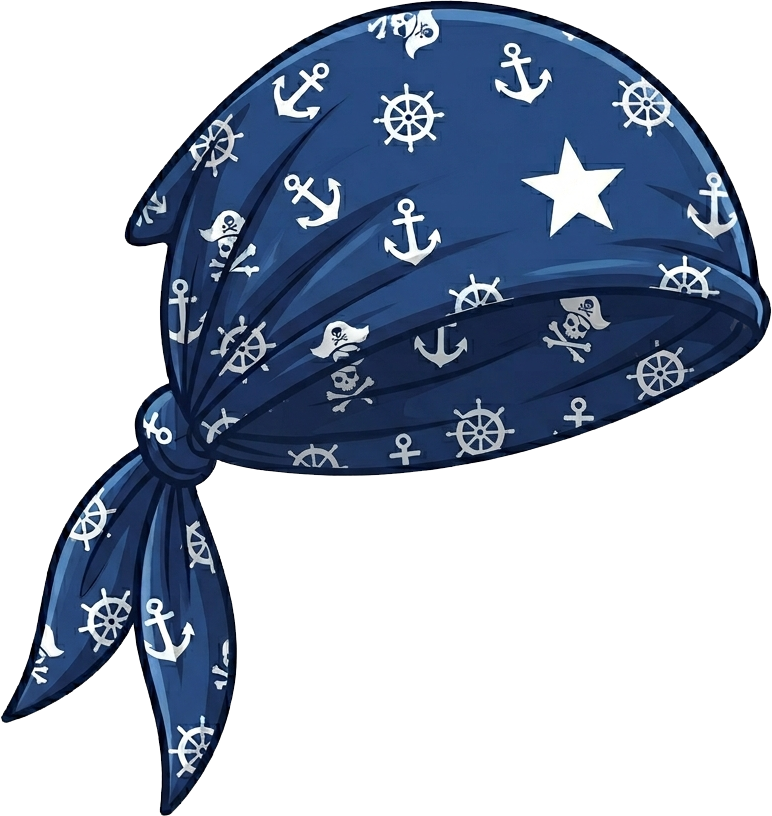
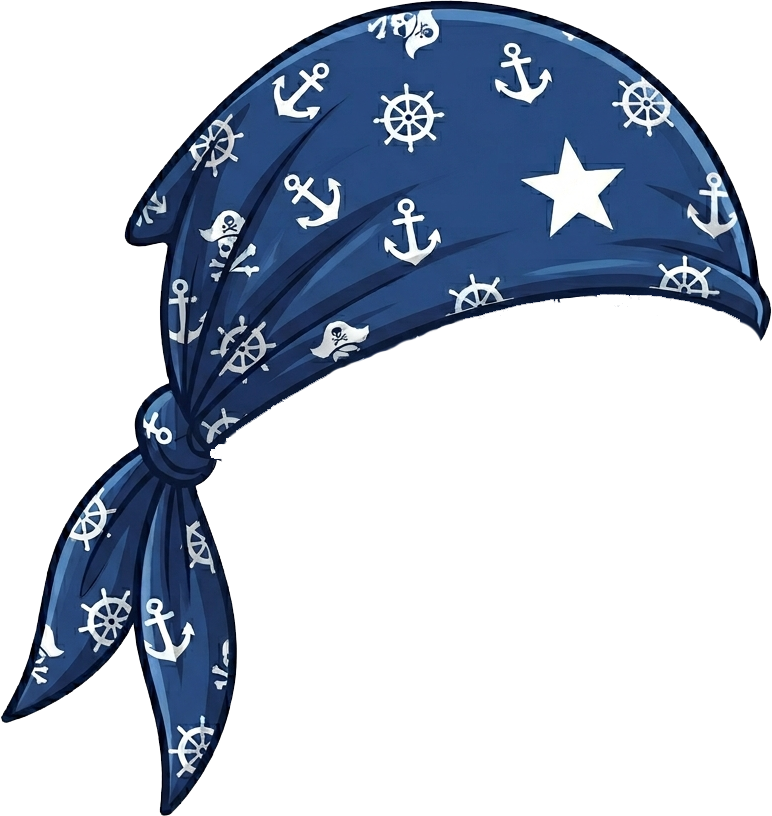
fix(treasure-divide): rope painter abort + tune lookout theme
Rope painter abort root cause:
The `_RopePainter` on the treasure map issued ~200 separate
canvas.drawPath calls per paint — one per dash segment along ~8
quadratic Bezier curves (dashLen=3, gapLen=5). Each call round-trips
through the Dart→wasm bridge and allocates Skia path objects in the
CanvasKit heap. Wasm GC isn't deterministic so the cumulative
pressure surfaced as `RuntimeError: Aborted()` inside
PictureRecorder during paint(). Confirmed from the flutter run log:
every Aborted() in the session traces to
treasure_map_widget.dart:346:26 (the CustomPaint hosting _RopePainter).

Fix: accumulate every dash sub-segment into a single combined Path
via `_addDashesTo`, then issue exactly one canvas.drawPath per
paint. Same visual output, ~200x fewer Skia round-trips. Extracted
sub-paths are immediately consumed by target.addPath and discarded.

Lookout theme tuning + refreshed art:
- Bandana (theme 4, accessory 0)
  - kThemeAccessoryFaceWidthScale[4][0] = 1.541 — bandana box spans
    1.541x the player's face bbox width (the bandana wraps further
    around the head than the bosun tricorn's 1.36).
  - kThemeAccessoryOffsetMultipliers[4][0] = Offset(-0.13, 0.25) —
    left 13%, down 25% of its own size so the visible cloth lands
    on the forehead (source art has negative space above).
  - Refreshed lookout_bandana.png art.
- Telescope (theme 4, accessory 1)
  - Anchor changed from topRightCorner to leftEye so the scope
    follows the player's actual eye.
[…]

Changed region(s): [[0.2798, 0.337, 0.9948, 0.5821]]

diff --git a/dart_games/lib/widgets/treasure_divide/pirate_avatar_widget.dart b/dart_games/lib/widgets/treasure_divide/pirate_avatar_widget.dart
@@ -74,8 +74,10 @@ const Map<ThemeAccessoryAnchor, Offset> _kHeuristicPositions = {
 ///                 mark), scar=leftEyeNoseMidpoint (sits on the upper cheek
 ///                 directly below the left eye)
 /// - 3 Navigator:  sailor_cap=headTop, monocle=rightEye, compass=bottomRightCorner
-/// - 4 Lookout:    bandana=headTop, telescope=topRightCorner (scope extends
-///                 toward upper-right — matches spec "upper-right frame edge")
+/// - 4 Lookout:    bandana=headTop, telescope=leftEye with a half-step
+///                 right/up nudge so the scope's bottom-left corner pins
+///                 exactly on the left-eye landmark (telescope appears
+///                 raised to the eye)
 /// - 5 Cook:       chef_hat=headTop, neckerchief=chinBottom (under jaw),
 ///                 spoon=bottomLeftCorner (peeking from lower-left)
 /// - 6 Gunner:     floppy_hat=headTop, cannonball=bottomRightCorner
@@ -105,7 +107,7 @@ const Map<int, List<ThemeAccessoryAnchor>> kThemeAccessoryAnchors = {
   ],
   4: [
     ThemeAccessoryAnchor.headTop,
-    ThemeAccessoryAnchor.topRightCorner,
+    ThemeAccessoryAnchor.leftEye,
   ],
   5: [
     ThemeAccessoryAnchor.headTop,
@@ -160,6 +162,10 @@ const Map<int, Map<int, double>> kThemeAccessorySizeMultipliers = {
   //              the critter perched at the 4 o'clock mark reads
   //              clearly at the avatar circle's edge.
   2: {1: 1.5},
+  // Lookout (theme 4):
+  //   telescope (1) — 1.375× the face-anchored base (0.35 × avatarSize)
+  //                   for a longer, more visible scope held to the eye.
+  4: {1: 1.375},
 };
 
 /// Per-(theme, accessory) position nudge, in units of the accessory's
@@ -198,6 +204,20 @@ const Map<int, Map<int, Offset>> kThemeAccessoryOffsetMultipliers = {
     0: Offset(0.05, -0.05),
     1: Offset(-0.20, 0.10),
     2: Offset(0.20, 0.15),
+  },
+  // Lookout (theme 4):
+  //   bandana (0)   — left 13%, down 25% of its own size — the bandana
+  //                   art has a lot of negative space above the cloth
+  //                   itself, so the box needs to slide down so the
+  //                   visible bandana lands on the forehead.
+  //   telescope (1) — right 43%, up 40% from the leftEye anchor —
+  //                   started at +0.5/-0.5 (bottom-left corner exactly
+  //                   on the eye), slid 10% left + 10% down so the
+  //                   eyepiece overlaps the eye, then nudged 3% back
+  //                   to the right.
+  4: {
+    0: Offset(-0.13, 0.25),
+    1: Offset(0.43, -0.4),
   },
 };
 
@@ -249,6 +269,12 @@ const Map<int, Map<int, double>> kThemeAccessoryFaceWidthScale = {
     0: 1.36,
     2: 0.25,
   },
+  // Lookout (theme 4):
+  //   bandana (0) — 1.541× face-width — the bandana wraps further
+  //                 around the head than the tricorn brim so it
+  //                 reads better with a touch more overhang on
+  //                 each side.
+  4: {0: 1.541},
 };
 
 // ─── Anchor position resolver ────────────────────────────────────────────────

diff --git a/dart_games/lib/widgets/treasure_divide/treasure_map_widget.dart b/dart_games/lib/widgets/treasure_divide/treasure_map_widget.dart
@@ -89,7 +89,16 @@ class _RopePainter extends CustomPainter {
       ..style = PaintingStyle.stroke
       ..strokeCap = StrokeCap.round;
 
-    // Build one path per segment and dash it manually using PathMetrics.
+    // Build ONE combined dashed path across all segments and issue a
+    // single canvas.drawPath. The original code did ~200 separate
+    // canvas.drawPath calls per paint (one per dash, 25-ish dashes per
+    // segment × 8 segments) which flooded CanvasKit's wasm Skia
+    // bindings — each call round-trips through the Dart/wasm bridge
+    // and allocates Skia objects that aren't deterministically released
+    // in wasm. Cumulative heap pressure surfaced as
+    // `RuntimeError: Aborted()` inside PictureRecorder. Consolidating
+    // into one drawPath drops that pressure dramatically.
+    final dashedPath = Path();
     for (int i = 0; i < coords.length - 1; i++) {
       final p1 = Offset(
         coords[i].x / 100 * size.width,
@@ -125,20 +134,21 @@ class _RopePainter extends CustomPainter {
         ..moveTo(p1.dx, p1.dy)
         ..quadraticBezierTo(ctrl.dx, ctrl.dy, p2.dx, p2.dy);
 
-      // Draw dashed version via PathMetrics
-      _drawDashedPath(canvas, segPath, paint, dashLen: 3, gapLen: 5);
+      _addDashesTo(dashedPath, segPath, dashLen: 3, gapLen: 5);
     }
+    canvas.drawPath(dashedPath, paint);
   }
 
-  void _drawDashedPath(
-    Canvas canvas,
-    Path path,
-    Paint paint, {
+  /// Walk [source]'s contour and append every dash-length sub-segment
+  /// into [target]. Caller is then responsible for a single drawPath
+  /// on the accumulated target — instead of one drawPath per dash.
+  void _addDashesTo(
+    Path target,
+    Path source, {
     required double dashLen,
     required double gapLen,
   }) {
-    final metrics = path.computeMetrics();
-    for (final metric in metrics) {
+    for (final metric in source.computeMetrics()) {
       double distance = 0;
       bool drawing = true;
       while (distance < metric.length) {
@@ -147,9 +157,9 @@ class _RopePainter extends CustomPainter {
           metric.length,
         );
         if (drawing) {
-          canvas.drawPath(
+          target.addPath(
             metric.extractPath(distance, segEnd),
-            paint,
+            Offset.zero,
           );
         }
         distance = segEnd;
